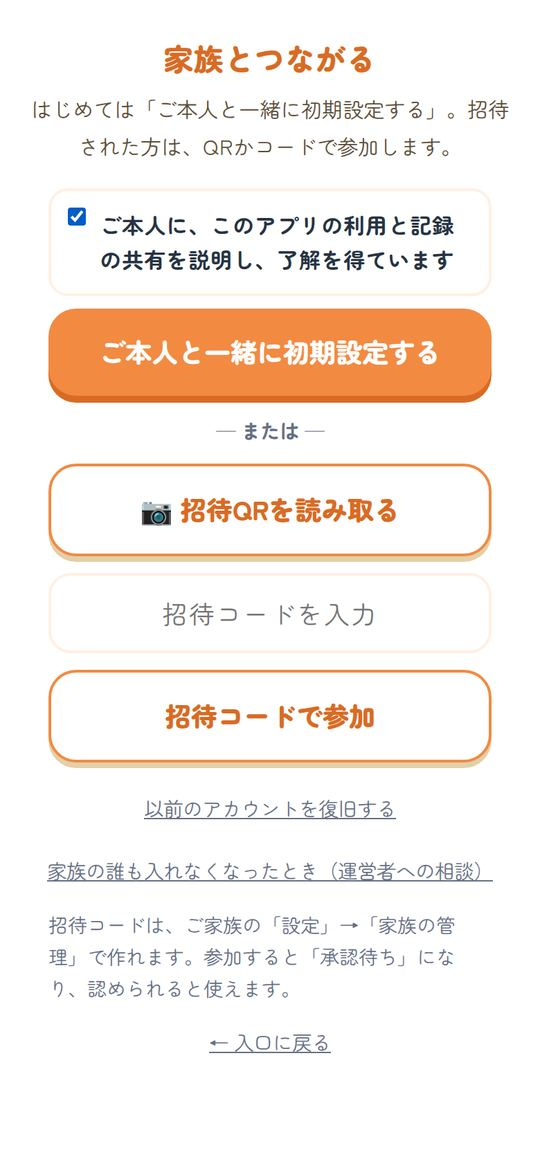
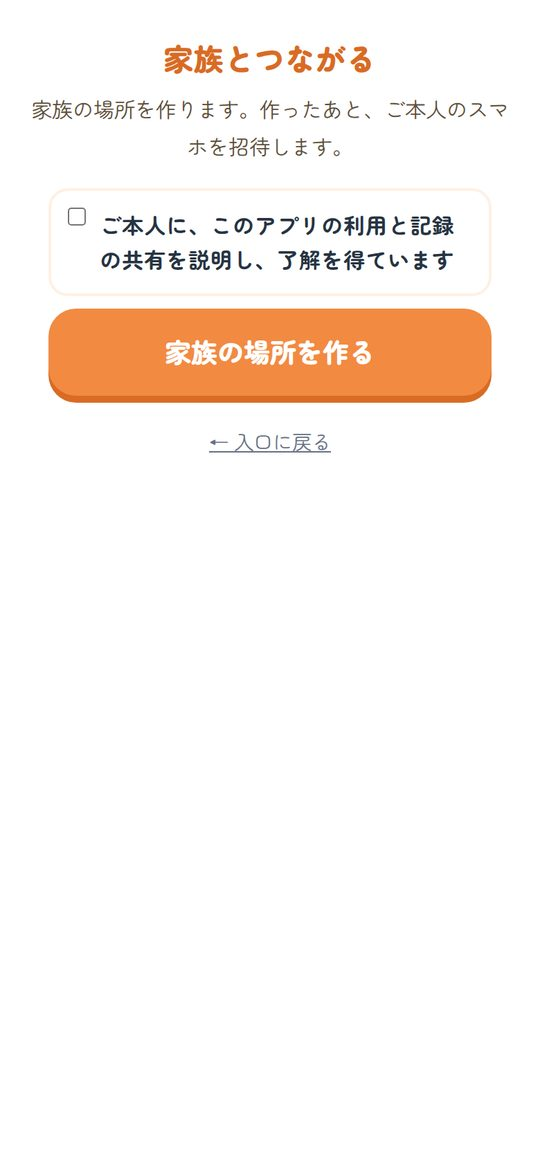
公式LINEを利用開始と毎日の入口に：はじめての方・あいさつ・QRの一文・使い方ガイドを今の画面に
- start.html(はじめての方)：本人も家族も使えること・始め方3つ・LINE連携が別に要ること・すでに使っている方は「使っていた記録に戻る」。本人／家族はアプリの入口で選ぶ
- 友だち追加のあいさつ(worker.js MSG_WELCOME)を指定の文に。友だち追加だけではLINE連携は完了しないと書く(送信役の貼り付けが必要)
- QR(line-qr.png・docs/line/line-qr-card.png)に「予定のお知らせを受け取るには、友だち追加後に、まいにこでLINE連携の設定が必要です。」。QRの中身は同じ(画素で一致を確認)
- 入口の「すでに使っている方へ」に、記録が見つからないときは新しく始めずに「使っていた記録に戻る」を追加
- 使い方ガイド・LINEの案内：入口・招待・家族のホーム・予定の知らせる人・LINEだけで受け取る人を今の画面と言葉に。写真9枚を撮り直し
- docs/line：下部メニュー画像(2500×843)・3つのリンク・設定内容
- 検査 tests/line-entry.test.mjs を追加

Claude-Session: https://claude.ai/code/session_01NHzjzuWBmHWp9wX2PF6KgL

diff --git a/start.html b/start.html
@@ -1,0 +1,84 @@
+<!doctype html>
+<html lang="ja">
+<head>
+<meta charset="utf-8">
+<meta name="viewport" content="width=device-width,initial-scale=1,viewport-fit=cover">
+<title>まいにこ はじめての方へ</title>
+<meta name="description" content="まいにこは、ご本人もご家族も使えます。始め方を短くまとめました。">
+<link rel="icon" href="icon-192.png">
+<link rel="preconnect" href="https://fonts.googleapis.com">
+<link href="https://fonts.googleapis.com/css2?family=Zen+Maru+Gothic:wght@500;700;900&display=swap" rel="stylesheet">
+<!-- 公式LINEのメニュー「はじめての方」から開くページ(2026-10-11)。本人／家族の選び方はアプリの入口にそろえ、ここでは選ばせない -->
+<style>
+  :root { --navy:#243747; --blue:#1D4E9E; --orange:#e0732f; --orange-bg:#fdf1e7; --text:#2b2b2b; --muted:#5f6b76;
+    --bg:#faf7f2; --card:#fff; --line:#e8e1d6; --green:#06c755; color-scheme:light; }
+  * { box-sizing:border-box; }
+  body { margin:0; background:var(--bg); color:var(--text); font-family:"Zen Maru Gothic","Hiragino Maru Gothic ProN","Hiragino Sans","Noto Sans JP",sans-serif; line-height:1.85; font-size:17px; }
+  .wrap { max-width:640px; margin:0 auto; padding:0 16px 48px; }
+  header { text-align:center; padding:28px 0 8px; }
+  header img { width:72px; height:72px; border-radius:18px; }
+  h1 { color:var(--navy); font-size:26px; margin:8px 0 4px; letter-spacing:.06em; }
+  .catch { color:var(--blue); font-weight:900; font-size:21px; line-height:1.5; margin:10px 0 2px; }
+  .sub { font-weight:700; margin:0 0 6px; }
+  h2 { color:var(--navy); font-size:20px; margin:30px 0 10px; padding-left:10px; border-left:6px solid var(--orange); }
+  .card { background:var(--card); border:1px solid var(--line); border-radius:16px; padding:14px 16px; margin:10px 0; }
+  .who { display:grid; gap:10px; }
+  .who .card b { display:block; color:var(--navy); font-size:18px; }
+  ol.steps { list-style:none; padding:0; margin:0; counter-reset:s; }
+  ol.steps > li { counter-increment:s; position:relative; background:var(--card); border:1px solid var(--line); border-radius:16px; padding:14px 16px 14px 58px; margin:10px 0; }
+  ol.steps > li::before { content:counter(s); position:absolute; left:14px; top:14px; width:32px; height:32px; border-radius:50%; background:var(--orange); color:#fff; font-weight:900; display:flex; align-items:center; justify-content:center; }
+  ol.steps b.t { display:block; color:var(--navy); font-size:18px; }
+  .btnlike { display:inline-block; border:2px solid var(--orange); color:#7A3E12; background:var(--orange-bg); border-radius:10px; padding:0 8px; font-weight:700; line-height:1.7; }
+  .note { color:var(--muted); font-size:15px; }
+  .line { background:#eefaf2; border:2px solid var(--green); }
+  .open { display:block; text-align:center; text-decoration:none; background:var(--orange); color:#fff; font-weight:900; font-size:20px; border-radius:16px; padding:16px; margin:16px 0 10px; }
+  .open.sub2 { background:#fff; color:#7A3E12; border:2px solid var(--orange); font-size:17px; }
+  .safe { font-size:14px; color:var(--muted); margin-top:28px; }
+</style>
+</head>
+<body>
+<div class="wrap">
+  <header>
+    <img src="icon-192.png" alt="まいにこ">
+    <h1>まいにこ はじめての方へ</h1>
+    <p class="catch">今日の様子と予定を、<br>家族でひとつに。</p>
+    <p class="sub">できる日は本人が、難しい日は家族が。</p>
+  </header>
+
+  <a class="open" href="./">まいにこを開く</a>
+
+  <h2>ご本人も、ご家族も使えます</h2>
+  <div class="who">
+    <div class="card"><b>ご本人</b>ボタンを押すだけで「きょうも元気」や体調・お願いが家族に届きます。</div>
+    <div class="card"><b>ご家族</b>ご本人の様子を見たり、記録したり、予定を入れたりします。ご本人がスマホを使わない家庭は、家族だけでも使えます。</div>
+    <div class="card"><b>LINEで予定だけ受け取る人</b>ヘルパーさんなど。アプリを使わず、選ばれた予定のお知らせだけをLINEで受け取ります。</div>
+  </div>
+
+  <h2>始め方</h2>
+  <ol class="steps">
+    <li><b class="t">ご家族のスマホで始める</b>
+      上の <span class="btnlike">まいにこを開く</span> → <span class="btnlike">はじめて使う</span> → 「このスマホで操作するのは？」に <span class="btnlike">家族</span>。<br>
+      ご本人も自分のスマホで使うなら <span class="btnlike">使う</span>、家族だけなら <span class="btnlike">家族だけで使う</span>。説明を読んで同意し、名前を入れて始めます。</li>
+    <li><b class="t">ご本人のスマホをつなぐ（使うときだけ）</b>
+      家族のホームの <span class="btnlike">招待QRを出す</span> を、ご本人のスマホのカメラで読みます。開いたまいにこで <span class="btnlike">招待から参加する</span> → <span class="btnlike">本人</span>。最後に家族が <span class="btnlike">参加を認める</span> を押せば完了です。</li>
+    <li><b class="t">ホーム画面に追加する</b>
+      次からすぐ開けるように、スマホのホーム画面に「まいにこ」のアイコンを置きます。</li>
+  </ol>
+  <p class="note">ご本人が自分ひとりで始めることもできます（<span class="btnlike">はじめて使う</span> → <span class="btnlike">本人</span>）。ほかのご家族から招待が届いた方は、そのリンクや招待QRから進んでください。</p>
+
+  <h2>LINEで予定のお知らせを受け取るには</h2>
+  <div class="card line">
+    <p style="margin:0 0 6px;"><b>予定のお知らせを受け取るには、友だち追加後に、まいにこでLINE連携の設定が必要です。</b></p>
+    <p style="margin:0;">まいにこの「設定」（ご本人は「その他の設定」）→「LINEで予定のお知らせ」→ <span class="btnlike">自分のLINEをつなぐ</span> を押し、開いたLINEで送信します。友だち追加だけでは、まいにこへの登録や家族への参加は完了しません。</p>
+  </div>
+
+  <h2>すでに使っている方</h2>
+  <div class="card">
+    いつもの記録は、いつも開いている場所（ホーム画面の「まいにこ」アイコンなど）から開いてください。ブラウザーやスマホが変わって記録が見つからないときは、新しく始めずに、入口の <span class="btnlike">使っていた記録に戻る</span> を選んでください。
+  </div>
+
+  <a class="open sub2" href="guide/">写真つきの使い方を見る</a>
+  <p class="safe">まいにこは、119番通報や安否確認、医療・介護の代わりではありません。カメラも位置情報も使いません。記録を見られるのは、家族だけです。</p>
+</div>
+</body>
+</html>

diff --git a/guide/index.html b/guide/index.html
@@ -160,7 +160,7 @@
     <div class="step with-pic">
       <div>
         <h3><span class="n">3</span>名前を入れて、家族をつくる</h3>
-        <p>家族の中での呼び名（例：りえ）を入れて <span class="btnlike or">つぎへ</span>。<br>ご本人に説明したことにチェックを入れ、<span class="btnlike or">ご本人と一緒に初期設定する</span> を押します。</p>
+        <p>家族の中での呼び名（例：りえ）を入れて <span class="btnlike or">つぎへ</span>。<br>ご本人に説明したことにチェックを入れ、<span class="btnlike or">家族の場所を作る</span> を押します。</p>
       </div>
       <div class="phones"><figure class="phone"><div class="frame"><img src="img/05-connect.jpg" alt="家族とつながる画面" loading="lazy"></div><figcaption>家族をつくる</figcaption></figure></div>
     </div>
@@ -195,7 +195,7 @@
     <div class="step with-pic">
       <div>
         <h3><span class="n">2</span>ご本人のスマホでコードを入れる<span class="who hon">ご本人</span></h3>
-        <p>ご本人のスマホの「カメラ」で招待QRを映し、出てきたリンクを押します。まいにこが開いたら <span class="btnlike or">本人が使う</span> → 同意 で、そのまま参加を申し込みます。<br>コードを入れるときは <span class="btnlike">招待コードで参加</span> を押します。</p>
+        <p>ご本人のスマホの「カメラ」で招待QRを映し、出てきたリンクを押します。まいにこが開いたら <span class="btnlike or">招待から参加する</span> → <span class="btnlike or">本人</span> → 同意 で、そのまま参加を申し込みます。<br>カメラで読めないときは、<span class="btnlike">招待から参加する</span> → <span class="btnlike">本人</span> → 同意のあと、招待コードを入れて <span class="btnlike">招待コードで参加</span> を押します。</p>
       </div>
       <div class="phones"><figure class="phone"><div class="frame"><img src="img/07-join-code.jpg" alt="招待コードを入れる画面" loading="lazy"></div><figcaption>コードを入れる</figcaption></figure></div>
     </div>
@@ -239,7 +239,7 @@
   <!-- 4 家族が見る -->
   <section class="chapter" id="family">
     <div class="chap-head"><div class="chap-no">4</div><h2>家族が見る・返事する<span class="who fam">家族</span></h2></div>
-    <p class="chap-lead">ホームの「本人とのやりとり」に、ご本人が押したことが届きます。</p>
+    <p class="chap-lead">ホームのいちばん上の「今日見ること」→「今日の様子・ご本人とのやりとり」に、ご本人が押したことが届きます。</p>
 
     <div class="step with-pic">
       <div>
@@ -249,7 +249,7 @@
         <p>お願いには <span class="btnlike">今から対応するね</span> などを押すだけ。返事はご本人の画面に出ます。</p>
         <div class="tip"><b>ポイント</b>　返事は必須ではありません。催促もしません。</div>
       </div>
-      <div class="phones"><figure class="phone"><div class="frame"><img src="img/12-family-yaritori.jpg" alt="本人とのやりとり" loading="lazy"></div><figcaption>本人とのやりとり</figcaption></figure></div>
+      <div class="phones"><figure class="phone"><div class="frame"><img src="img/12-family-yaritori.jpg" alt="家族のホームの今日見ること" loading="lazy"></div><figcaption>今日見ること</figcaption></figure></div>
     </div>
   </section>
 
@@ -260,10 +260,10 @@
 
     <div class="step with-pic">
       <div>
-        <h3><span class="n">1</span>「＋ 予定を入れる」</h3>
-        <p>「予定」のページで <span class="btnlike">＋ 予定を入れる</span>。予定名・日付・時間を入れて <span class="btnlike or">保存する</span>。</p>
+        <h3><span class="n">1</span>「予定を入れる」</h3>
+        <p>ホームの「記録する」の <span class="btnlike">予定を入れる</span>（「予定」のページからも入れられます）。予定名・日付・時間を入れて <span class="btnlike or">保存する</span>。</p>
         <h3><span class="n">2</span>LINEでも知らせる（使う人だけ）</h3>
-        <p>「LINEで知らせる日時」を入れると、その時間にLINEで届きます。<span class="btnlike">前日の夜7時</span> なども選べます。</p>
+        <p>「LINEで知らせる日時」を入れると、その時間にLINEで届きます。<span class="btnlike">前日の夜7時</span> なども選べます。<br>「LINEで知らせる人」で、届ける人を選べます。</p>
         <div class="tip"><b>ポイント</b>　はじめに「設定」→「LINEで予定のお知らせ」で、受け取る人のLINEをつないでおきます（<a href="line.html">写真つきのやり方</a>）。</div>
       </div>
       <div class="phones">

diff --git a/guide/line.html b/guide/line.html
@@ -137,6 +137,7 @@
         <h3><span class="n">1</span>「LINEで予定のお知らせ」を開く</h3>
         <p>「⚙ 設定」（ご本人は「その他の設定」）→ <span class="btnlike">LINEで予定のお知らせ</span> を開きます。</p>
         <p>はじめての人は、<span class="btnlike">まいにこを友だち追加</span> を押します（追加済みなら飛ばしてOK）。</p>
+        <div class="tip"><b>大切</b>　予定のお知らせを受け取るには、友だち追加後に、まいにこでLINE連携の設定が必要です。友だち追加だけでは完了しません。次の2〜4で連携します。</div>
       </div>
       <div class="phones"><figure class="phone"><div class="frame"><img src="img/l01-settings.jpg" alt="LINEで予定のお知らせ" loading="lazy"></div><figcaption>LINEで予定のお知らせ</figcaption></figure></div>
     </div>
@@ -151,11 +152,11 @@
     <div class="step with-pic">
       <div>
         <h3><span class="n">3</span>LINEで「送信」を押す</h3>
-        <p>そのまま送信を押すと、「✅ 〇〇さん、LINE連携しました。登録できました。」と返事が届きます。</p>
+        <p>そのまま送信を押すと、「✅ 〇〇さん（家族）のLINE登録：LINE連携しました。」と返事が届きます。</p>
       </div>
-      <div class="phones"><figure class="phone" style="width:min(260px,100%)"><div class="chat"><div class="me">BBRVWC3M</div><div class="bot">✅ りえさん、LINE連携しました。登録できました。
+      <div class="phones"><figure class="phone" style="width:min(260px,100%)"><div class="chat"><div class="me">BBRVWC3M</div><div class="bot">✅ りえさん（家族）のLINE登録：LINE連携しました。
 
-これから、まいにこの予定のお知らせが、このLINEに届きます。</div></div><figcaption>LINEのトーク（イメージ）</figcaption></figure></div>
+これから、まいにこの予定のお知らせを、このLINEへ送ります。</div></div><figcaption>LINEのトーク（イメージ）</figcaption></figure></div>
     </div>
     <div class="step with-pic">
       <div>
@@ -173,7 +174,7 @@
     <div class="step with-pic">
       <div>
         <h3><span class="n">1</span>予定に「LINEで知らせる日時」を入れる</h3>
-        <p>「予定」で予定を入れるとき、<b>LINEで知らせる日時</b> を選びます。<span class="btnlike">前日の夜7時</span> <span class="btnlike">当日の朝7時</span> を押すだけでも入ります。</p>
+        <p>予定を入れるとき、<b>LINEで知らせる日時</b> を選び、「LINEで知らせる人」で届ける人を選びます。<span class="btnlike">前日の夜7時</span> <span class="btnlike">当日の朝7時</span> を押すだけでも入ります。</p>
         <div class="tip"><b>ポイント</b>　同じ時刻の予定は、1人に1通にまとめて届きます。</div>
       </div>
       <div class="phones"><figure class="phone"><div class="frame"><img src="img/l04-yotei-notify.jpg" alt="LINEで知らせる日時" loading="lazy"></div><figcaption>LINEで知らせる日時</figcaption></figure></div>
@@ -205,10 +206,10 @@
     <div class="step with-pic">
       <div>
         <h3><span class="n">1</span>ヘルパーさんなど、アプリを使わない人にも送る</h3>
-        <p>設定の <span class="btnlike">LINEの送信先を追加</span> で、名前を入れて招待を作ります。相手が招待の文をLINEで送ると、送信先になります。</p>
+        <p>「LINEで予定のお知らせ」の「LINEだけで予定を受け取る人」→ <span class="btnlike">受け取る人を追加する</span>。確認を読んで同意し、名前を入れて招待を作ります。相手が招待の文をLINEで送ると、「✓ 登録済み」になります。</p>
         <div class="tip safe"><b>安心</b>　送るのは、予定ごとに「知らせる」と選んだ予定だけです。ご本人の了解をとってから使ってください。</div>
       </div>
-      <div class="phones"><figure class="phone"><div class="frame"><img src="img/l06-recipient.jpg" alt="LINEの送信先を追加" loading="lazy"></div><figcaption>LINEだけで届ける</figcaption></figure></div>
+      <div class="phones"><figure class="phone"><div class="frame"><img src="img/l06-recipient.jpg" alt="LINEだけで予定を受け取る人" loading="lazy"></div><figcaption>LINEだけで届ける</figcaption></figure></div>
     </div>
     <div class="step">
       <div>

diff --git a/line-notify.js b/line-notify.js
@@ -201,8 +201,8 @@
     /* まいにこ公式LINEのQRコード(2026-10-11 「このQRコードは設定にいれないの？」)。
        このスマホでは上のボタンで友だち追加する。QRは、そばにいる人のスマホで読んでもらうとき・紙に印刷するとき用 */
     self+='<details class="ln-more ln-qr"><summary>まいにこ公式LINEのQRコード（そばの人に読んでもらう）</summary>'+
-      '<p class="note">このスマホで友だち追加するときは、上の「まいにこを友だち追加」を押してください。QRコードは、そばにいる家族のスマホのLINEで読んでもらうときに使います。</p>'+
-      '<img src="line-qr.png" alt="まいにこ公式LINE（'+h(LINE_ID)+'）の友だち追加QRコード" width="300" height="384" loading="lazy" style="display:block;width:100%;max-width:300px;height:auto;margin:8px auto;"></details>';
+      '<p class="note">このスマホで友だち追加するときは、上の「まいにこを友だち追加」を押してください。QRコードは、そばにいる家族のスマホのLINEで読んでもらうときに使います。<b>予定のお知らせを受け取るには、友だち追加後に、まいにこでLINE連携の設定が必要です。</b></p>'+
+      '<img src="line-qr.png" alt="まいにこ公式LINE（'+h(LINE_ID)+'）の友だち追加QRコード" width="300" height="434" loading="lazy" style="display:block;width:100%;max-width:300px;height:auto;margin:8px auto;"></details>';
     self+='<div class="save-state" data-line-state aria-live="polite"></div>';
     /* 並び(2026-10-10 使いやすさの見直し 優先3):
        1. 自分のLINE  2. つながっている家族(アプリを使う家族。登録が必要な人には、その人への頼み方)

diff --git a/index.html b/index.html
@@ -946,7 +946,7 @@ a.set-btn.ln-line,a.set-btn.ln-soft{text-decoration:none;}
       }
       box.innerHTML=inLine
         ?'<b>まず、いつものブラウザーで開いてください</b>LINEの中で始めたり参加したりすると、次に開いたとき続きから使えないことがあります。ホーム画面にも追加できません。<br><a href="'+url.replace(/"/g,'&quot;')+'">'+(/Android/i.test(ua)?'Chromeで開く':'いつものブラウザーで開く')+'</a><br><small>すでにまいにこを使っている方は、ここで新しく始めず、ホーム画面の「まいにこ」アイコンから開いてください。</small>'
-        :'<b>すでに使っている方へ</b>ホーム画面の「まいにこ」から開いてください。';
+        :'<b>すでに使っている方へ</b>ホーム画面の「まいにこ」から開いてください。ホーム画面に置いていないときや、記録が見つからないときは、新しく始めずに、下の「使っていた記録に戻る」を押してください。';
       box.hidden=false;
     }catch(e){}
   });
@@ -2410,7 +2410,7 @@ window.mainicoMoveCode=MainicoDeviceMove.takeCode(location,history);
 <script src="person-button-feedback.js?v=20260917-voice"></script>
 <script src="family-connection.js?v=20260917-legacy"></script>
 <script src="person-tasks.js?v=20260930"></script>
-<script src="line-notify.js?v=20261011a"></script>
+<script src="line-notify.js?v=20261011b"></script>
 <script src="line-login.js?v=20261001"></script>
 <script src="line-login-ui.js?v=20261003"></script>
 <script src="hitokoe.js?v=20261004"></script>

diff --git a/sw.js b/sw.js
@@ -2,7 +2,7 @@
    - 通信できるときは常に最新を取りに行き、取れたものを端末に控えておく(ネット優先)。
    - 電波がないときは控えを使う。アプリの画面が開けないときは offline.html(もしもの控え)を出す。
    - 共有記録(Firestore)の通信は控えない。控えるのは画面の部品だけ。 */
-const CACHE = 'mainico-shell-v20';  /* 2026-10-11 LINE設定に公式LINEのQR */
+const CACHE = 'mainico-shell-v21';  /* 2026-10-11 公式LINEを入口に(QRの一文・すでに使っている方への案内) */
 const SHELL = [
   './', 'index.html', 'offline.html', 'help.html', 'privacy.html', 'manifest.json',
   'icon-192.png', 'icon-512.png', 'apple-touch-icon.png',

diff --git a/docs/line/README.md b/docs/line/README.md
@@ -1,0 +1,47 @@
+# まいにこ公式LINE（@187mrwbk）の入口の設定
+
+2026-10-11。公式LINEを「利用開始」と「毎日の入口」にするための素材と設定内容です。
+LINEの管理画面（LINE Official Account Manager）は運営者が設定します。設定が終わるまでは「未設定」として扱います。
+
+## 素材
+
+| ファイル | 使い道 |
+| --- | --- |
+| `richmenu-2500x843.png` | 下部メニューの画像（2500×843・3つ並び） |
+| `line-qr-card.png` | 友だち追加のQR（チラシ・紙に印刷する用）。QRの中身は今までと同じ（`https://line.me/R/ti/p/%40187mrwbk`） |
+
+## 下部メニュー（リッチメニュー）の3つのリンク
+
+LINE側では本人／家族を選ばせない。使い方はアプリの入口で選ぶ。
+`?openExternalBrowser=1` を付けて、LINEの中ではなく、いつものブラウザー（iPhoneはSafari、AndroidはChrome）で開く。
+
+| 位置 | ボタン | リンク |
+| --- | --- | --- |
+| 左 | まいにこを開く | `https://pocham4173.github.io/hidamari/?openExternalBrowser=1` |
+| 中 | はじめての方 | `https://pocham4173.github.io/hidamari/start.html?openExternalBrowser=1` |
+| 右 | 使い方 | `https://pocham4173.github.io/hidamari/guide/?openExternalBrowser=1` |
+
+## 友だち追加のあいさつ
+
+送信役（Cloudflare Worker の `worker.js`）が、友だち追加のときに返事で送る（`MSG_WELCOME`）。
+管理画面の「あいさつメッセージ」はオフにする（オンのままだと、あいさつが2通届く）。
+
+```
+まいにこへようこそ🌼
+
+今日の様子と予定を、家族でひとつに。
+できる日は本人が、難しい日は家族が使えます。
+
+下の『まいにこを開く』から始めてください。
+
+予定のお知らせをLINEで受け取るには、まいにこでLINE連携の設定が必要です。友だち追加だけでは設定は完了しません。
+
+ご家族から招待リンクが届いている方は、そのリンクから進んでください。
+```
+
+## 既存の利用者が迷わないために（アプリ側で対応済み）
+
+- メニューから開くと、いつものブラウザーで開く。Androidでホーム画面のアイコンを使っている人は、同じ記録が開く
+- iPhoneでホーム画面のアイコンを使っている人は、Safariとホーム画面のアイコンで保存場所が別のため、Safariでは入口が出る。入口には「すでに使っている方へ：ホーム画面の『まいにこ』から開いてください。ホーム画面に置いていないときや、記録が見つからないときは、新しく始めずに、下の『使っていた記録に戻る』を押してください」と出る
+- LINEの中で開いてしまったときは、「まず、いつものブラウザーで開いてください」と、Chrome／いつものブラウザーで開くボタンが出る
+- 友だち追加は、まいにこへの登録・家族への参加・LINE連携の完了として扱わない。LINE連携は、まいにこの「LINEで予定のお知らせ」→「自分のLINEをつなぐ」で行う
